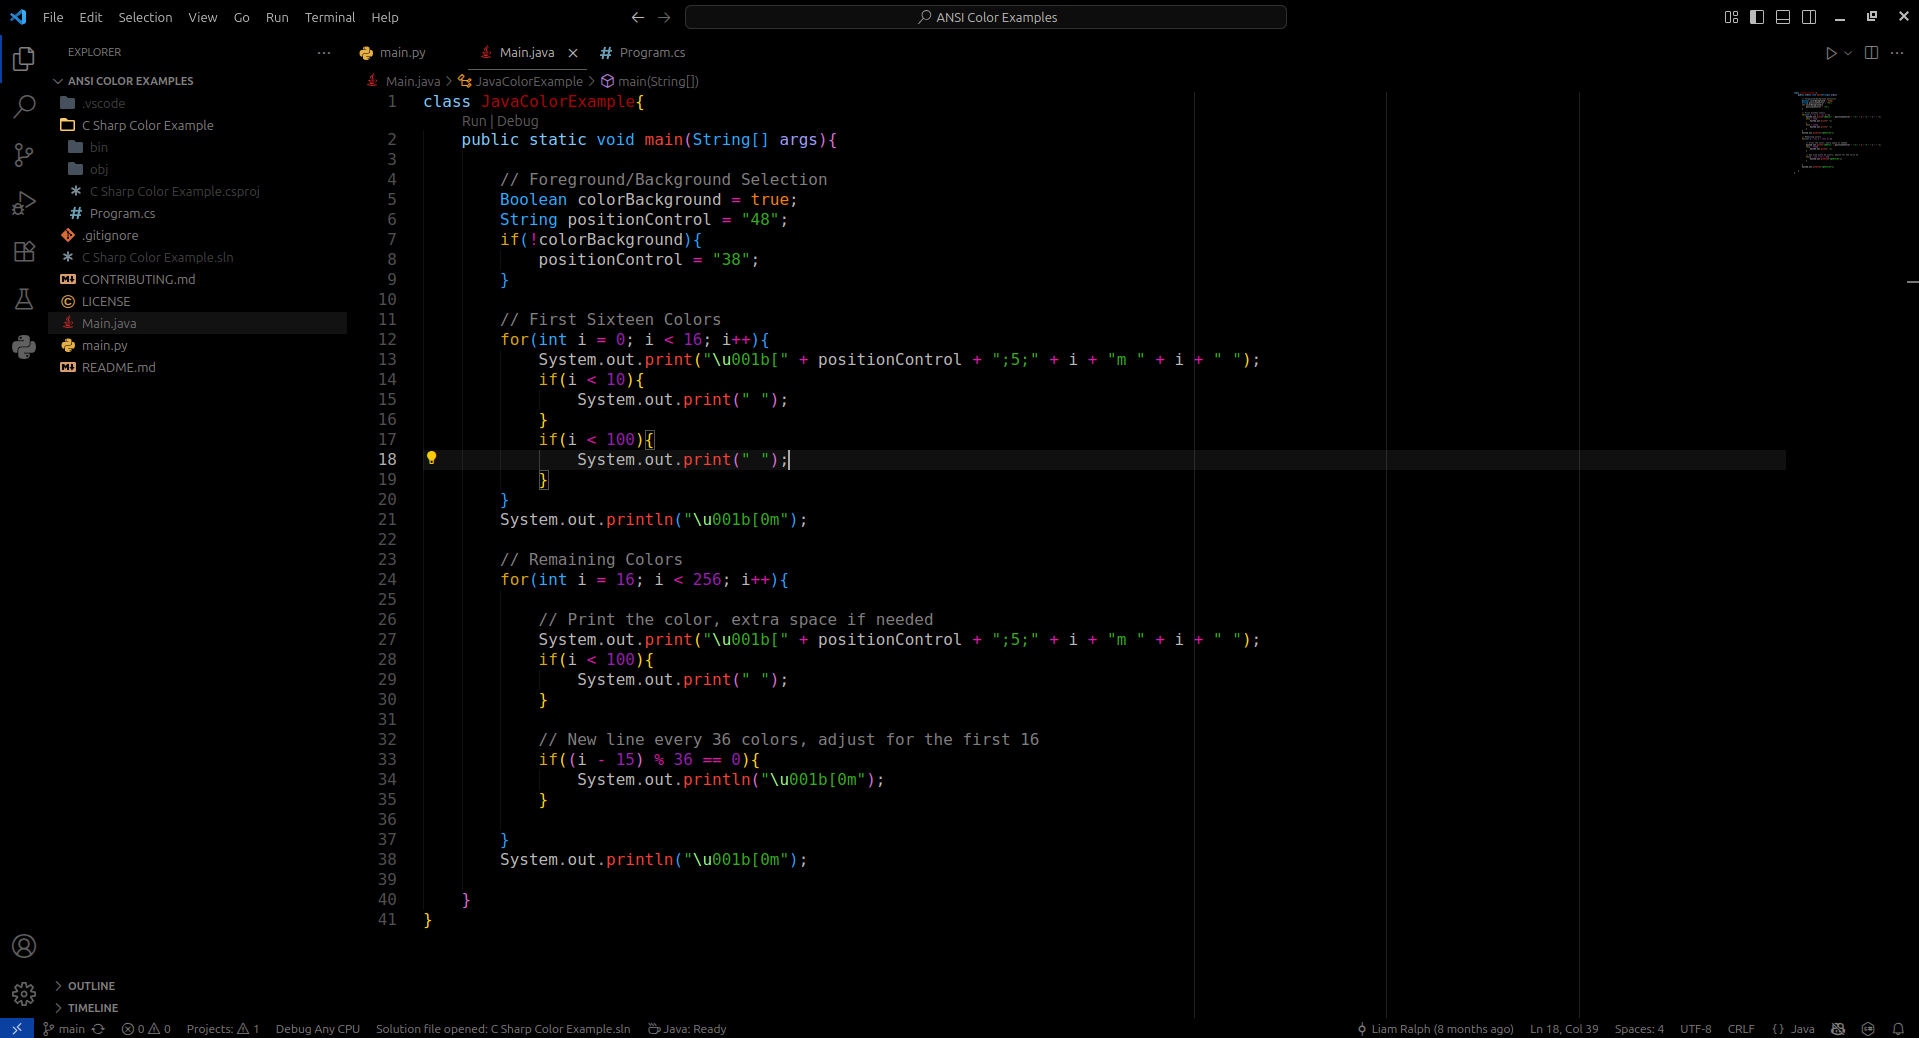
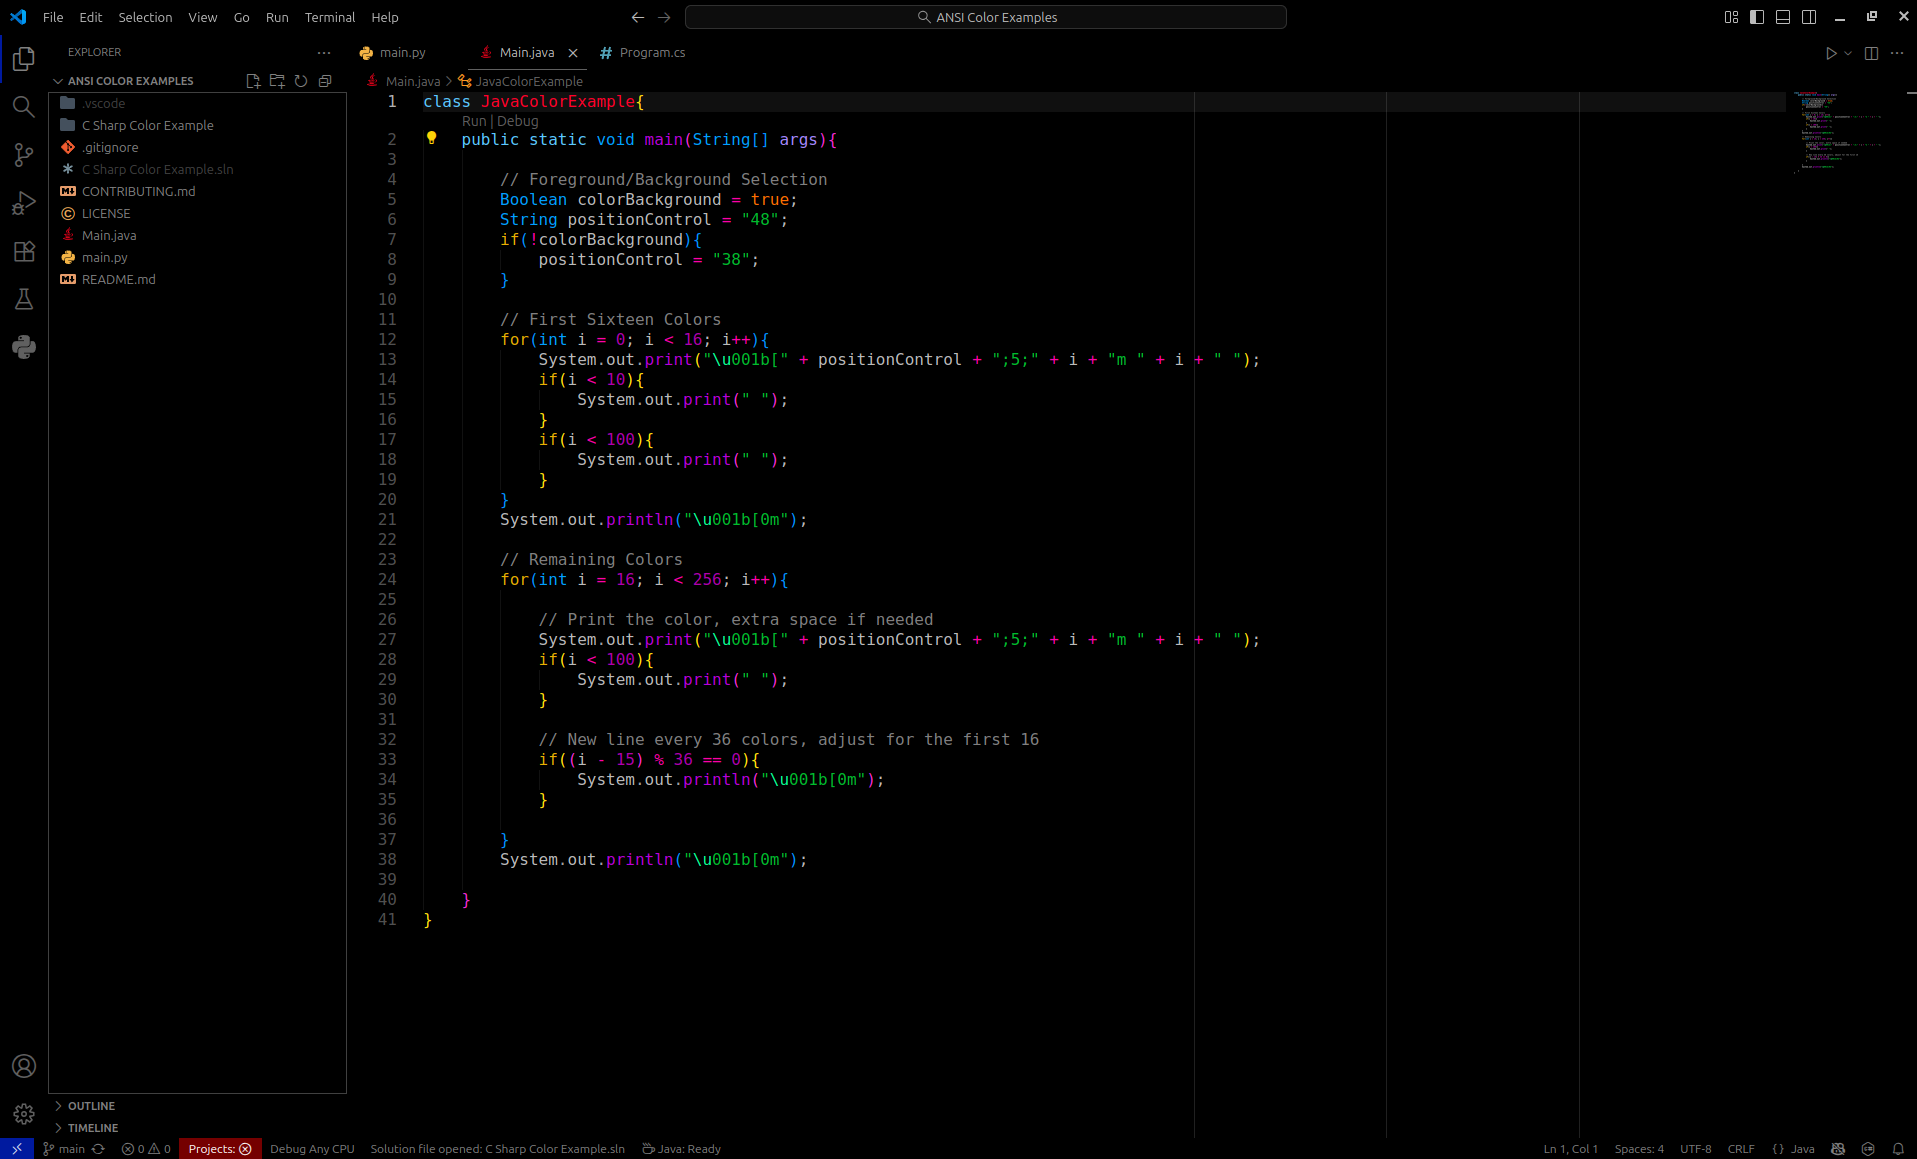
change function, class, and markdown heading colours

diff --git a/CHANGELOG.md b/CHANGELOG.md
@@ -1,3 +1,8 @@
+## Version 1.0.8 (October 2025)
+
+ - Changed function colour to differentiate from classes/structs.
+ - Changed Markdown heading colours.
+
 ## Version 1.0.7 (October 2025)
 
  - Modified selection background colours so they stand out more.

diff --git a/README.md b/README.md
@@ -1,6 +1,6 @@
 # BlackLite
 ### Released October 2025
-### Version 1.0.7
+### Version 1.0.8
 ### Updated October 2025
 
 <br/>
